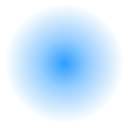
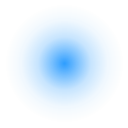
glowing mouse area

diff --git a/super-reality-client/src/renderer/components/lesson-player/find-box/index.scss b/super-reality-client/src/renderer/components/lesson-player/find-box/index.scss
@@ -14,11 +14,29 @@
     background-position: center;
     background-repeat: no-repeat;
     background-size: contain;
+    -webkit-animation: mouse-glow 3s infinite ease-in-out;
+    animation: mouse-glow 3s infinite ease-in-out;
+    filter: brightness(1);
   }
 
   &.rectangle {
     background-color: #47a3ff17;
     border: solid var(--color-blue) 3px;
+  }
+}
+
+@-webkit-keyframes mouse-glow {
+  0%, 100% { background-size: 100% }  
+  50% { background-size: 66% }
+}
+  
+@keyframes mouse-glow {
+  0%, 100% { 
+    filter: brightness(1.3);
+    background-size: 120%;
+  }  50% { 
+    filter: brightness(1);
+    background-size: 66%;
   }
 }
 
